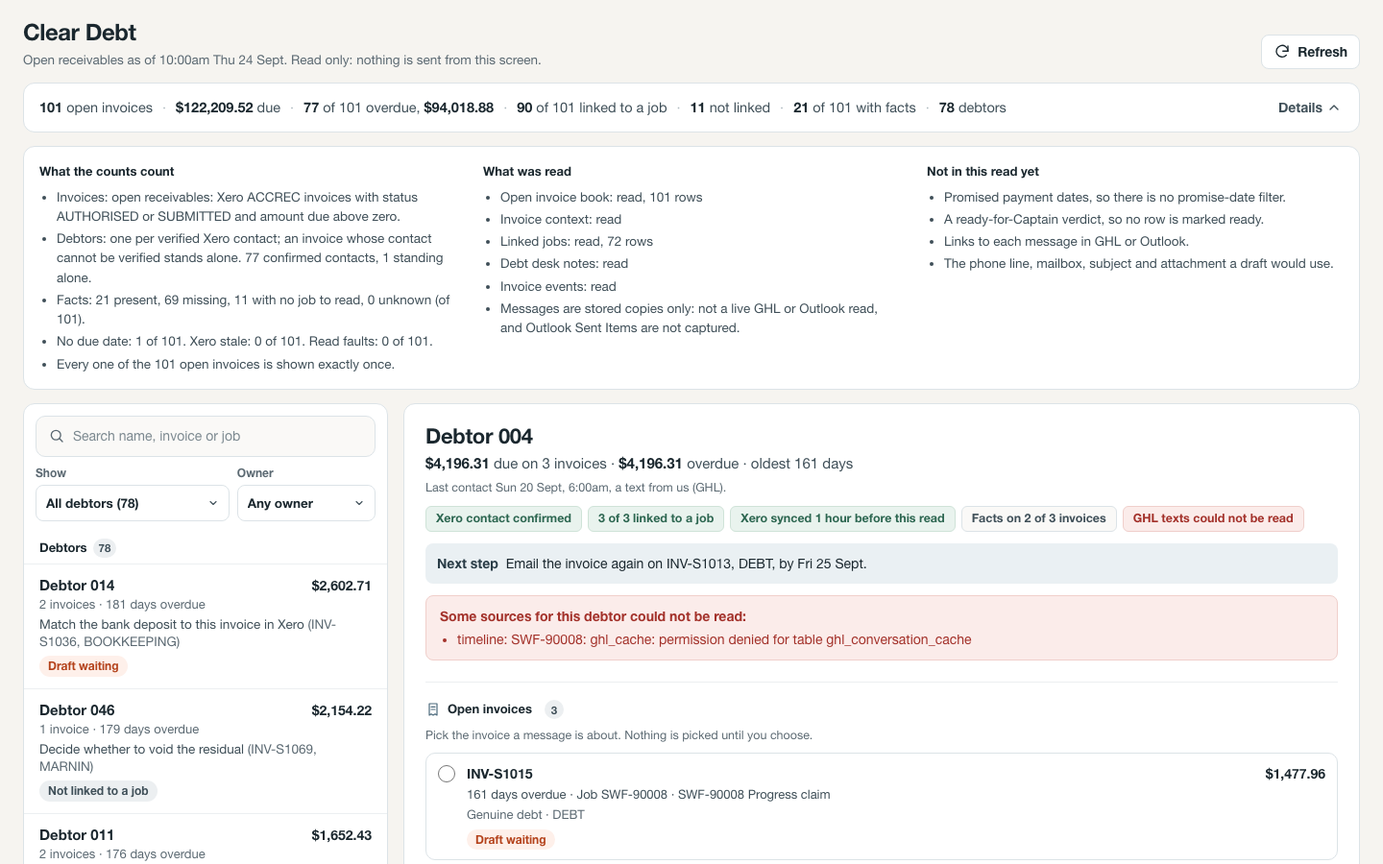
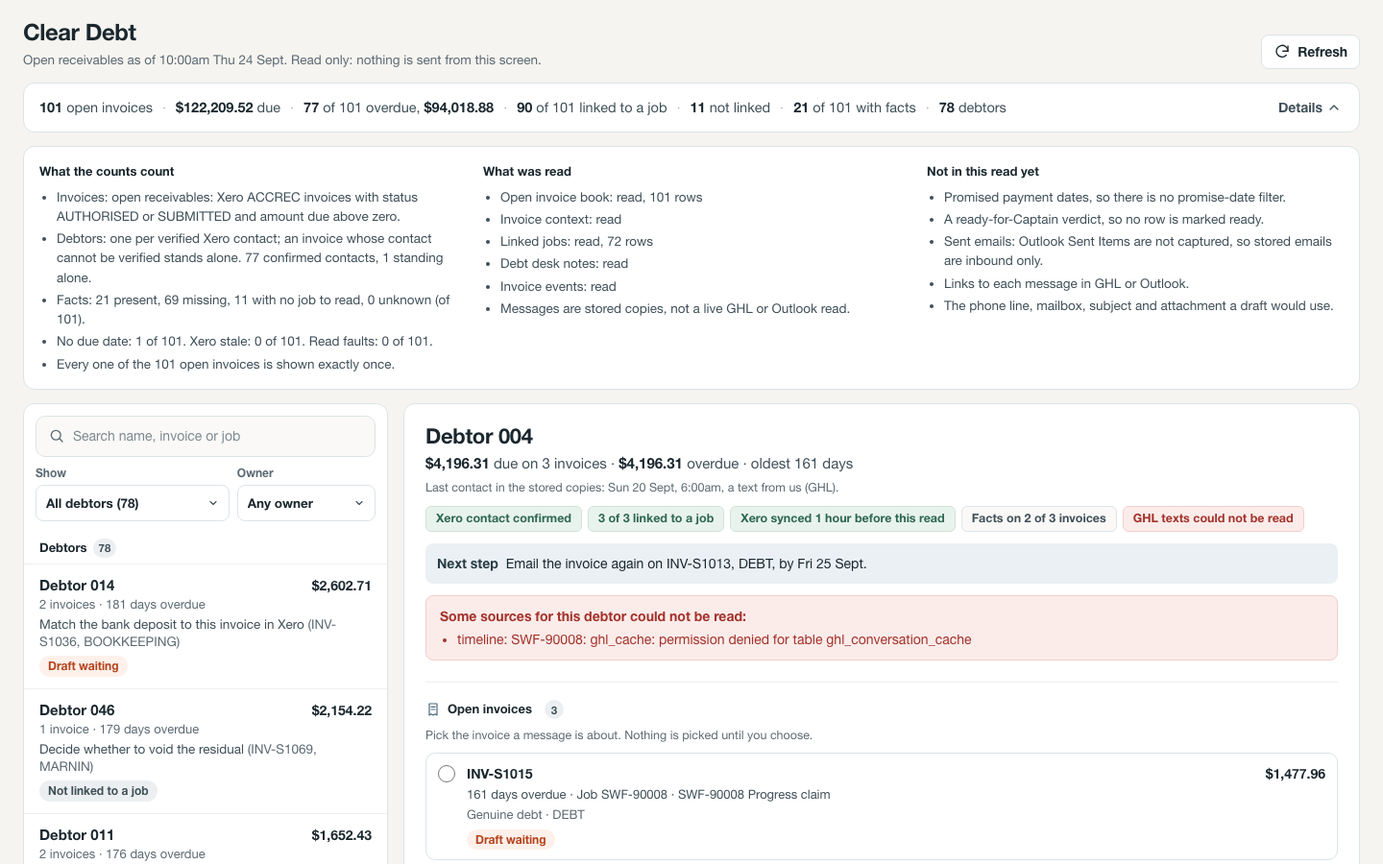
fix(ops): one rule for every empty or partial Clear Debt view
Applies the review decision after the pipeline's fix round ran out of time:
sweep every empty-state and absence line onto one rule.

- timelineLimits: each source behind the current view that was not fully
  read (GHL unreadable, stale, not read, no job or no contact; email, which
  is inbound copies only; notes unreadable or not read; Xero stale; facts
  unreadable, not read, only counted or no job), each capped job and a
  truncated timeline gives exactly one line, with the read's owner and fix.
  It replaces the separate source summary, health rows, fact lines and
  "incomplete" line, which could state one condition twice.
- absenceLine: "No texts among the 7 stored items read" only when every
  source behind the view was fully read; beside any limit there is none.
- The card's last-contact line follows the same rule ("in the stored
  copies", or "unknown:" with the limits); a GHL capture age badge keeps the
  health that the removed rows carried.
- One table-driven test walks every empty-state path against the rule.

Changed region(s): [[0.6875, 0.2489, 0.9688, 0.3733], [0.375, 0.3422, 0.625, 0.4044], [0.3438, 0.56, 0.5938, 0.5911]]

diff --git a/modules/ops-clear-debt-v2.js b/modules/ops-clear-debt-v2.js
@@ -301,20 +301,86 @@
   function isRecord(e) { return e.direction === 'system' || e.kind === 'invoice_event'; }
   function previewCut(e) { return String(e.preview || '').length >= 500; }
 
-  // What the empty or partial view is honestly missing, named by source.
-  function sourceGaps(d, group) {
-    var s = (d && d.sources) || {};
-    var out = [];
-    function say(status, what) {
-      if (status === 'no_job') out.push({ bad: false, text: 'No invoice on this debtor is linked to a job, so ' + what + ' cannot be read.' });
-      else if (status === 'unreadable') out.push({ bad: true, text: what.charAt(0).toUpperCase() + what.slice(1) + ' could not be read, so this list is not the whole story.' });
-      else if (status === 'not_read') out.push({ bad: false, text: what.charAt(0).toUpperCase() + what.slice(1) + ' were not read for this view.' });
-      else if (status === 'no_contact') out.push({ bad: false, text: 'The linked job has no GHL contact, so stored GHL texts cannot be found.' });
+  // ONE rule for every empty or partial view. A source that was not fully
+  // read (unread, unreadable, partial, stale, capped or truncated) gets one
+  // line naming it and its limit, and no absence claim. Absence is stated only
+  // when every source behind the view was fully read, and then only for what
+  // was read ("among the 7 stored items read"). Each condition is one line.
+  var GROUP_SOURCES = {
+    all: ['ghl', 'email', 'notes', 'xero', 'facts'],
+    text: ['ghl'], call: ['ghl', 'notes'], email: ['email'], note: ['notes', 'ghl'],
+    xero: ['xero'], facts: ['facts'], other: []
+  };
+  var MESSAGE_GROUPS = { all: 1, text: 1, call: 1, email: 1, note: 1 };
+  function withFix(v, text) {
+    var bits = [];
+    if (v && v.owner) bits.push('owner ' + v.owner);
+    if (v && v.recovery_action) bits.push('fix: ' + v.recovery_action);
+    if (!bits.length) return text;
+    return text.replace(/\.$/, '') + ' (' + bits.join('; ') + ').';
+  }
+  function sourceLimit(d, key) {
+    var s = (d.sources && d.sources[key]) || {};
+    var st = s.status;
+    var asOf = d.freshness && d.freshness.as_of;
+    function line(bad, text, short) { return { key: key, bad: bad, text: withFix(s, text), short: short }; }
+    if (key === 'ghl') {
+      if (st === 'bound' || st === 'several') return null;
+      if (st === 'stale') return line(true, 'Stored GHL texts are stale: last captured ' + (s.last_success_at ? (ageBetween(s.last_success_at, asOf) || 'some time') + ' before this read' : 'at a time the read did not give') + (s.stale_after ? ', stale after ' + s.stale_after : '') + '.', 'stored GHL texts are stale');
+      if (st === 'unreadable') return line(true, 'Stored GHL texts could not be read.', 'stored GHL texts could not be read');
+      if (st === 'no_job') return line(false, 'No invoice on this debtor is linked to a job, so stored GHL texts cannot be read.', 'no job is linked, so GHL texts cannot be read');
+      if (st === 'no_contact') return line(false, 'The linked job has no GHL contact, so stored GHL texts cannot be found.', 'the job has no GHL contact');
+      if (st === 'not_read') return line(false, 'Stored GHL texts were not read for this view.', 'GHL texts were not read');
+      return line(false, 'The read did not say whether stored GHL texts were read.', 'GHL texts may not have been read');
     }
-    if (group === 'all' || group === 'text' || group === 'call') say(s.ghl && s.ghl.status, 'stored GHL texts');
-    if (group === 'all' || group === 'email') say(s.email && s.email.status, 'stored emails');
-    if (group === 'all' || group === 'note') say(s.notes && s.notes.status, 'notes');
-    return out;
+    if (key === 'email') {
+      if (st === 'partial' || st === 'read' || st === 'current') return line(false, 'Stored emails are inbound copies only; sent emails are not captured.', 'sent emails are not captured');
+      if (st === 'unreadable') return line(true, 'Stored emails could not be read.', 'stored emails could not be read');
+      if (st === 'no_job') return line(false, 'No invoice on this debtor is linked to a job, so stored emails cannot be read.', 'no job is linked, so emails cannot be read');
+      if (st === 'not_read') return line(false, 'Stored emails were not read for this view.', 'emails were not read');
+      return line(false, 'The read did not say whether stored emails were read.', 'emails may not have been read');
+    }
+    if (key === 'notes') {
+      if (st === 'read') return null;
+      if (st === 'unreadable') return line(true, 'Notes and desk logs could not be read.', 'notes could not be read');
+      if (st === 'not_read') return line(false, 'Notes and desk logs were not read for this view.', 'notes were not read');
+      return line(false, 'The read did not say whether notes were read.', 'notes may not have been read');
+    }
+    if (key === 'xero') {
+      if (st === 'current') return null;
+      return line(true, 'The Xero copy is stale' + (s.stale_after_hours ? ' (older than ' + plural(s.stale_after_hours, 'hour') + ')' : '') + '.', 'the Xero copy is stale');
+    }
+    if (key === 'facts') {
+      if (s.timeline_read === 'unreadable') return line(true, 'Captured facts could not be read for this timeline.', 'captured facts could not be read');
+      if (s.timeline_read === 'not_read') return line(false, 'Captured facts were not read for this view.', 'captured facts were not read');
+      if (s.timeline_read !== 'read') return line(false, 'This read does not list captured facts; it only counts them: ' + factsWords(s).toLowerCase() + '.', 'captured facts are counted, not listed');
+      if (st === 'no_job') return line(false, 'No invoice on this debtor is linked to a job, so captured facts cannot be read.', 'no job is linked, so facts cannot be read');
+      if (st === 'unreadable' || st === 'unknown') return line(true, 'Whether facts were captured for these invoices could not be read.', 'captured facts are unknown');
+      return null;
+    }
+    return null;
+  }
+  function timelineLimits(d, group) {
+    var tl = d.timeline || {};
+    var out = [];
+    (GROUP_SOURCES[group] || []).forEach(function (k) { var l = sourceLimit(d, k); if (l) out.push(l); });
+    if (MESSAGE_GROUPS[group] && (tl.per_job_cap_reached || []).length) {
+      out.push({ key: 'cap', bad: false, text: 'Job ' + tl.per_job_cap_reached.join(', ') + ' has more than ' + tl.per_job_cap + ' messages; only the newest ' + tl.per_job_cap + ' per job were read.', short: 'only the newest ' + tl.per_job_cap + ' messages per job were read' });
+    }
+    if ((group === 'facts' || group === 'all') && (tl.facts_cap_reached || []).length) {
+      out.push({ key: 'facts_cap', bad: false, text: 'Job ' + tl.facts_cap_reached.join(', ') + ' has more than ' + tl.facts_per_job_cap + ' captured facts; only the newest ' + tl.facts_per_job_cap + ' per job were read.', short: 'only the newest ' + tl.facts_per_job_cap + ' facts per job were read' });
+    }
+    if (tl.truncated) {
+      out.push({ key: 'truncated', bad: false, text: 'Only the newest ' + (tl.entries || []).length + ' of ' + tl.entries_read + ' stored entries are in this read.', short: 'only the newest ' + (tl.entries || []).length + ' of ' + tl.entries_read + ' stored entries were read' });
+    }
+    var seen = {};
+    return out.filter(function (l) { if (seen[l.text]) return false; seen[l.text] = true; return true; });
+  }
+  // The absence line for an empty view, or null when a limit forbids one.
+  function absenceLine(d, group, what) {
+    if (timelineLimits(d, group).length) return null;
+    var n = ((d.timeline && d.timeline.entries) || []).length;
+    return 'No ' + what + ' among the ' + plural(n, 'stored item') + ' read for this debtor.';
   }
 
   // ── composer ────────────────────────────────────────────────
@@ -493,6 +559,7 @@
       '<li>Promised payment dates, so there is no promise-date filter.</li>' +
       '<li>A ready-for-Captain verdict, so no row is marked ready.</li>' +
       (factsListedAnywhere(d) ? '' : '<li>What the captured facts say (only whether they exist).</li>') +
+      '<li>Sent emails: Outlook Sent Items are not captured, so stored emails are inbound only.</li>' +
       '<li>Links to each message in GHL or Outlook.</li>' +
       '<li>The phone line, mailbox, subject and attachment a draft would use.</li>' +
       '</ul></div>' +
@@ -502,7 +569,7 @@
   function factsListedAnywhere(data) {
     return (data.debtors || []).some(function (x) { return x.sources && x.sources.facts && x.sources.facts.timeline_read === 'read'; });
   }
-  var STORED_NOTE = 'stored copies only: not a live GHL or Outlook read, and Outlook Sent Items are not captured';
+  var STORED_NOTE = 'stored copies, not a live GHL or Outlook read';
 
   function renderAlerts() {
     var d = state.data;
@@ -615,6 +682,9 @@
       if (st === 'unreadable') badges.push('<span class="badge bad">' + name + ' could not be read</span>');
       else if (/stale|fail/.test(String(st || ''))) badges.push('<span class="badge bad">' + name + ' capture ' + esc(words(st)) + '</span>');
     });
+    if (s.ghl && (s.ghl.status === 'bound' || s.ghl.status === 'several') && s.ghl.last_success_at) {
+      badges.push('<span class="badge">GHL captured ' + esc(ageBetween(s.ghl.last_success_at, fr.as_of) || 'recently') + ' before this read</span>');
+    }
     var names = id.name_variants ? '<p class="fine">Also written as ' + id.names.filter(function (n) { return n !== id.name; }).map(esc).join(', ') + ' on the same Xero contact.</p>' : '';
     var detail = id.detail ? '<p class="fine warn-text">' + esc(id.detail) + '.</p>' : '';
     var faults = (d.faults || []).length
@@ -625,9 +695,15 @@
         (d.next_step.owner ? ', ' + esc(d.next_step.owner) : '') + (d.next_step.at ? ', by ' + esc(dayLabel(d.next_step.at)) : '') + '.</p>'
       : '<p class="nextstep is-quiet"><span>Next step</span> None recorded on any of these invoices.</p>';
     var last = d.last_contact && d.last_contact.last;
-    var lastLine = last
-      ? 'Last contact ' + esc(whenLabel(last.at)) + ', ' + esc(last.channel === 'call' ? 'a call' : (last.channel === 'email' ? 'an email' : 'a text')) + ' ' + (last.direction === 'inbound' ? 'from them' : 'from us') + ' (' + esc(providerLabel(last.provider)) + ').'
-      : 'No text, email or call in the stored copies' + (d.last_contact && d.last_contact.complete === false ? ', which are incomplete for this debtor' : '') + '.';
+    var lastLine;
+    if (last) {
+      lastLine = 'Last contact in the stored copies: ' + esc(whenLabel(last.at)) + ', ' + esc(last.channel === 'call' ? 'a call' : (last.channel === 'email' ? 'an email' : 'a text')) + ' ' + (last.direction === 'inbound' ? 'from them' : 'from us') + ' (' + esc(providerLabel(last.provider)) + ').';
+    } else {
+      var lim = timelineLimits(d, 'all');
+      lastLine = lim.length
+        ? 'Last contact unknown: ' + esc(lim.map(function (l) { return l.short; }).join('; ')) + '.'
+        : esc(absenceLine(d, 'all', 'text, email or call'));
+    }
     return '<header class="cardhead">' +
       '<h2>' + esc(debtorName(d)) + '</h2>' +
       '<p class="figures"><b>' + esc(money(d.total_due)) + '</b> due on ' + plural(d.invoice_count, 'invoice') +
@@ -702,17 +778,14 @@
       return '<button type="button" class="chip" data-cd="tl" data-tl="' + c.key + '" aria-pressed="' + (state.tlFilter === c.key) + '">' + esc(c.label) + (n == null ? '' : '<span class="count">' + n + '</span>') + '</button>';
     }).join('');
     var status = timelineStatus(d);
+    var list = timelineEntries(d);
     var body;
-    {
-      var list = timelineEntries(d);
-      if (!list.length) {
-        var gaps = state.tlFilter === 'facts' ? factLines(d) : sourceGaps(d, state.tlFilter);
-        var which = state.tlFilter === 'all' ? 'entries' : (TL_CHIPS.filter(function (c) { return c.key === state.tlFilter; })[0].label.toLowerCase());
-        body = (gaps.length ? '' : '<p class="thread-note">No ' + esc(which) + ' in the ' + (tl.entries.length ? 'newest ' + tl.entries.length + ' ' : '') + 'stored copies for this debtor.</p>') +
-          gaps.filter(function (g) { return !g.always; }).map(function (g) { return '<p class="thread-note' + (g.bad ? ' is-bad' : '') + '">' + esc(g.text) + '</p>'; }).join('');
-      } else {
-        body = '<ol class="thread">' + list.map(function (e) { return renderEntry(d, e); }).join('') + '</ol>';
-      }
+    if (!list.length) {
+      var which = state.tlFilter === 'all' ? 'entries' : TL_CHIPS.filter(function (c) { return c.key === state.tlFilter; })[0].label.toLowerCase();
+      var none = absenceLine(d, state.tlFilter, which);
+      body = none ? '<p class="thread-note">' + esc(none) + '</p>' : '';
+    } else {
+      body = '<ol class="thread">' + list.map(function (e) { return renderEntry(d, e); }).join('') + '</ol>';
     }
     return '<section class="block" aria-labelledby="cd-tl-h">' + head +
       '<div class="chips" role="group" aria-label="Show in the timeline">' + chips + '</div>' +
@@ -722,91 +795,12 @@
 
   function timelineStatus(d) {
     var tl = d.timeline;
-    var lines = [];
-    lines.push('<span>Newest first. ' + (tl.truncated ? 'Showing the newest ' + tl.entries.length + ' of ' + tl.entries_read + ' stored entries.' : plural(tl.entries.length, 'stored entry', 'stored entries') + '.') + '</span>');
-    if ((tl.per_job_cap_reached || []).length) {
-      lines.push('<span>Job ' + tl.per_job_cap_reached.map(esc).join(', ') + ' has more than ' + tl.per_job_cap + ' messages; only the newest ' + tl.per_job_cap + ' per job were read.</span>');
-    }
-    if (tl.duplicates_merged) lines.push('<span>' + plural(tl.duplicates_merged, 'copy', 'copies') + ' of the same message shown once.</span>');
-    var s = d.sources;
-    var src = [
-      'GHL texts ' + ghlWords(s.ghl && s.ghl.status),
-      'emails ' + emailWords(s.email && s.email.status),
-      'notes ' + readWords(s.notes && s.notes.status),
-      'Xero ' + (s.xero && s.xero.status === 'current' ? 'current' : 'stale')
-    ];
-    lines.push('<span>Sources: ' + esc(src.join('; ')) + '.</span>');
-    lines.push('<span>These are ' + esc(STORED_NOTE) + '.</span>');
-    var facts = factLines(d).filter(function (g) { return g.always; });
-    var health = sourceHealth(d) + facts.map(function (g) { return '<p class="thread-note' + (g.bad ? ' is-bad' : '') + '">' + esc(g.text) + '</p>'; }).join('');
-    var incomplete = tl.complete ? '' : '<p class="thread-note' + ((d.faults || []).length ? ' is-bad' : '') + '">This timeline is incomplete' + ((d.faults || []).length ? ': a source could not be read.' : ': older or capped entries are not in this read.') + '</p>';
-    return '<p class="tl-status fine">' + lines.join(' ') + '</p>' + health + incomplete;
-  }
-
-  // Per-source capture health, when the read carries it (the CFO desk's
-  // later revision: status, last_success_at, stale_after, owner,
-  // recovery_action). Absent fields are simply not claimed.
-  var HEALTH_SOURCES = [['ghl', 'GHL'], ['email', 'Email'], ['notes', 'Notes'], ['facts', 'Facts'], ['xero', 'Xero']];
-  function sourceHealthRows(d) {
-    var s = (d && d.sources) || {};
-    return HEALTH_SOURCES.filter(function (x) {
-      var v = s[x[0]];
-      return v && (v.last_success_at || v.stale_after || v.owner || v.recovery_action);
-    }).map(function (x) {
-      var v = s[x[0]];
-      var bits = [];
-      var age = v.last_success_at ? ageBetween(v.last_success_at, d.freshness.as_of) : null;
-      var live = Boolean(v.last_success_at) && v.last_success_at === d.freshness.as_of;
-      if (live) bits.push('read live with this read');
-      else if (v.last_success_at) bits.push('last captured ' + (age || 'at an unknown time') + ' before this read');
-      else bits.push('no capture time published');
-      if (v.stale_after) bits.push('stale after ' + (typeof v.stale_after === 'number' ? plural(v.stale_after, 'hour') : v.stale_after));
-      if (v.owner) bits.push('owner ' + v.owner);
-      if (v.recovery_action) bits.push('fix: ' + v.recovery_action);
-      if (x[0] === 'email') bits.push('sent emails not captured');
-      return { key: x[0], label: x[1], bad: /stale|unreadable|fail|missing/.test(String(v.status || '')), text: x[1] + ': ' + (live && v.status === 'read' ? '' : words(v.status || 'status not stated') + ', ') + bits.join(', ') };
-    });
-  }
-  function sourceHealth(d) {
-    var rows = sourceHealthRows(d);
-    if (!rows.length) return '';
-    return '<ul class="health fine">' + rows.map(function (r) { return '<li' + (r.bad ? ' class="is-bad"' : '') + '>' + esc(r.text) + '.</li>'; }).join('') + '</ul>';
-  }
-  function ghlWords(s) {
-    return { bound: 'read', several: 'read (several GHL contacts)', stale: 'stale, not captured recently', no_contact: 'no contact on the job', no_job: 'no job to read', unreadable: 'could not be read', not_read: 'not read' }[s] || 'unknown';
-  }
-  // Email is never called complete while Outlook Sent Items are not captured.
-  function emailWords(s) {
-    if (s === 'read' || s === 'current' || s === 'partial') return 'read from inbound copies, sent ones not captured';
-    return readWords(s);
-  }
-  function readWords(s) {
-    return { read: 'read', no_job: 'no job to read', unreadable: 'could not be read', not_read: 'not read' }[s] || 'unknown';
-  }
-
-  // What the timeline can honestly say about captured facts. Lines marked
-  // always show under the status line; the rest explain an empty Facts view.
-  function factLines(d) {
-    var f = (d.sources && d.sources.facts) || {};
-    var tl = d.timeline || {};
-    var out = [];
-    if (f.timeline_read === 'unreadable') {
-      out.push({ always: true, bad: true, text: 'Captured facts could not be read for this timeline, so none are shown. This does not mean there are none.' });
-    } else if (f.timeline_read === 'not_read') {
-      out.push({ always: true, bad: false, text: 'Captured facts were not read for this view.' });
-    } else if (f.timeline_read !== 'read') {
-      out.push({ always: true, bad: false, text: 'This read did not report whether captured facts were listed.' });
-    } else if (f.status === 'no_job') {
-      out.push({ always: true, bad: false, text: 'No invoice on this debtor is linked to a job, so captured facts cannot be read here.' });
-    } else if (f.status === 'missing') {
-      out.push({ always: false, bad: false, text: 'No facts have been captured from the linked jobs yet.' });
-    } else {
-      out.push({ always: false, bad: false, text: 'None of the captured facts are among the newest ' + (tl.entries || []).length + ' entries in this view.' });
-    }
-    if ((tl.facts_cap_reached || []).length) {
-      out.push({ always: true, bad: false, text: 'Job ' + tl.facts_cap_reached.join(', ') + ' has more than ' + tl.facts_per_job_cap + ' captured facts; only the newest ' + tl.facts_per_job_cap + ' per job were read.' });
-    }
-    return out;
+    var lines = ['Newest first.'];
+    if (tl.duplicates_merged) lines.push(plural(tl.duplicates_merged, 'copy', 'copies') + ' of the same message shown once.');
+    lines.push('These are ' + STORED_NOTE + '.');
+    var limits = timelineLimits(d, state.tlFilter);
+    return '<p class="tl-status fine">' + esc(lines.join(' ')) + '</p>' +
+      (limits.length ? '<ul class="limits" data-cd-limits>' + limits.map(function (l) { return '<li' + (l.bad ? ' class="is-bad"' : '') + '>' + esc(l.text) + '</li>'; }).join('') + '</ul>' : '');
   }
 
   function factValue(v) {
@@ -1050,9 +1044,8 @@
     entryGroup: entryGroup,
     timelineEntries: timelineEntries,
     chipCounts: chipCounts,
-    sourceGaps: sourceGaps,
-    sourceHealthRows: sourceHealthRows,
-    factLines: factLines,
+    timelineLimits: timelineLimits,
+    absenceLine: absenceLine,
     staleOrUnreadable: staleOrUnreadable,
     isFactEntry: isFactEntry,
     composerModel: composerModel,

diff --git a/tests/e2e/ops-clear-debt.spec.js b/tests/e2e/ops-clear-debt.spec.js
@@ -114,8 +114,8 @@ for (const vp of viewports) {
       const card = page.locator('.db-card');
       const entries = card.locator('.thread > li.tl');
       await expect(entries).toHaveCount(12);
-      await expect(card.locator('.tl-status')).toContainText('Showing the newest 12 of 32 stored entries.');
-      await expect(card.locator('.tl-status')).toContainText('Outlook Sent Items are not captured');
+      await expect(card.locator('[data-cd-limits]')).toContainText('Only the newest 12 of 32 stored entries are in this read.');
+      await expect(card.locator('[data-cd-limits]')).toContainText('Stored emails are inbound copies only; sent emails are not captured');
       await expect(card.locator('.tl .src').first()).toBeVisible();
       await expect(card.locator('.tl-foot', { hasText: 'Preview, cut at 500 characters' })).toHaveCount(1);
       await expect(card.locator('.tl-foot', { hasText: 'also in captured event' })).toHaveCount(1);
@@ -182,18 +182,18 @@ for (const vp of viewports) {
       const card = page.locator('.db-card');
       await expect(card.locator('.badge.bad')).toHaveText('GHL texts could not be read');
       await expect(card.locator('.cardhead .db-alert')).toContainText('ghl_cache: permission denied');
-      await expect(card).toContainText('This timeline is incomplete: a source could not be read.');
+      await expect(card.locator('[data-cd-limits] li.is-bad')).toContainText('Stored GHL texts could not be read (owner CIO; fix: Retry the read');
       if (vp.name === 'phone') await card.getByRole('button', { name: 'All debtors' }).click();
       await page.locator('.db-list .lead', { hasText: 'Debtor 002' }).first().click();
-      await expect(card.locator('.tl-status')).toContainText('only the newest 10 per job were read');
+      await expect(card.locator('[data-cd-limits]')).toContainText('only the newest 10 per job were read');
       if (vp.name === 'phone') await card.getByRole('button', { name: 'All debtors' }).click();
       await page.locator('.db-list .lead', { hasText: 'Debtor 006' }).first().click();
-      await expect(card).toContainText('Captured facts could not be read for this timeline, so none are shown. This does not mean there are none.');
+      await expect(card.locator('[data-cd-limits]')).toContainText('Captured facts could not be read for this timeline.');
       await expect(card.locator('[data-tl="facts"] .count')).toHaveCount(0);
       if (vp.name === 'phone') await card.getByRole('button', { name: 'All debtors' }).click();
       await page.locator('.db-list .lead', { hasText: 'Debtor 008' }).first().click();
       await expect(card.locator('.badge.bad')).toHaveText('GHL texts capture stale');
-      await expect(card.locator('.health')).toContainText('GHL: stale, last captured 30 hours before this read, stale after 6h, owner CIO, fix: CIO: run the GHL message reconcile for the stale contact(s).');
+      await expect(card.locator('[data-cd-limits]')).toContainText('Stored GHL texts are stale: last captured 30 hours before this read, stale after 6h (owner CIO; fix: CIO: run the GHL message reconcile for the stale contact(s)).');
       expect((await ledger(page)).reads).toHaveLength(1);
     });
 

diff --git a/modules/ops-clear-debt-v2.css b/modules/ops-clear-debt-v2.css
@@ -175,8 +175,11 @@
 #clearDebtRoot .chip[aria-pressed="true"]:hover{background:var(--brand)}
 #clearDebtRoot .chip[aria-pressed="true"] .count{background:rgba(255,255,255,.18);color:#fff}
 #clearDebtRoot .tl-status{max-width:90ch}
-#clearDebtRoot .health{list-style:none;padding:0;display:grid;gap:2px}
-#clearDebtRoot .health .is-bad{color:var(--bad)}
+#clearDebtRoot .limits{list-style:none;padding:0;display:grid;gap:3px;font-size:13px;color:var(--ink-2)}
+#clearDebtRoot .limits li{position:relative;padding-left:14px}
+#clearDebtRoot .limits li::before{content:"";position:absolute;left:2px;top:8px;width:5px;height:5px;border-radius:50%;background:#AEB9BF}
+#clearDebtRoot .limits .is-bad{color:var(--bad);font-weight:600}
+#clearDebtRoot .limits .is-bad::before{background:var(--bad)}
 #clearDebtRoot .thread-note{color:var(--muted);font-size:13.5px}
 #clearDebtRoot .thread-note.is-bad{color:var(--bad);font-weight:600}
 #clearDebtRoot .thread{list-style:none;padding:0;display:grid;gap:8px;margin-top:4px}

diff --git a/docs/clear-debt-ui.md b/docs/clear-debt-ui.md
@@ -12,7 +12,8 @@ The screen is a work list, phone first:
 - **Debtor list** in the read's order. Search matches the whole query inside one field: any contact name spelling, invoice number, reference, linked job number or ambiguous-link candidate. **Show** filters answer only from fields the read carries (overdue, 60+ days, draft waiting, our message was last, not linked, facts missing, stale or unreadable source, contact not confirmed, dispute, blocked, awaiting allocation, not owed, unclassified). "Stale or unreadable source" covers stale Xero, any debtor fault, and a GHL, email, notes or facts source the read marks `stale` or `unreadable`; **Owner** comes from `owners`. Filters never change the counts line. There is no promise-date or ready-for-Captain filter until the read carries those fields.
 - **Debtor card**: name, totals, last contact, name variants on the same contact, the standing-alone reason for an unconfirmed contact, badges for identity, job links, Xero freshness, facts and any unreadable source, the debtor's next step naming its invoice, and every debtor fault verbatim.
 - **Invoice picker**: every invoice its own radio row, none picked at first. The draft exists only once one invoice is picked, and is about that invoice only.
-- **Timeline**: `debtor.timeline.entries` as one stream, newest first, each entry labelled with its provider, kind, direction, time, source (and the other sources that held the same message), invoice or job scope, and "Preview" (or "Preview, cut at 500 characters"). Chips filter that same stream; picking an invoice does not narrow it. Invoice selection is used by the composer only. The status line states truncation, the per-job cap, merged copies, each source's state and the stored-copies caveat; email is never called complete because Outlook Sent Items are not captured. An empty filter names the missing source, never "no messages". **Captured facts are timeline entries** with `kind: "fact"` (provider `luna`, source `current_job_context_facts`, a `fact` block with `kind`, `value`, `captured_at`, `source_id` and `state` current or stale); nothing else is treated as a fact, and there is no separate facts panel. The Facts chip counts them only when `sources.facts.timeline_read` is `read`; when it is `unreadable`, `not_read`, absent, capped, or there is no linked job, one honest line in the timeline names that condition instead of using summary counts as a substitute. Per-source health (`status`, `last_success_at`, `stale_after`, `owner`, `recovery_action`) renders under the status line; email's `partial` status reads as inbound copies only.
+- **Timeline**: `debtor.timeline.entries` as one stream, newest first, each entry labelled with its provider, kind, direction, time, source (and the other sources that held the same message), invoice or job scope, and "Preview" (or "Preview, cut at 500 characters"). Chips filter that same stream. **Captured facts are timeline entries** with `kind: "fact"` (provider `luna`, source `current_job_context_facts`, a `fact` block with `kind`, `value`, `captured_at`, `source_id` and `state` current or stale); nothing else is a fact, and there is no separate facts panel. The Facts chip shows a count only when `sources.facts.timeline_read` is `read`.
+  **One rule for empty and partial views** (`timelineLimits` / `absenceLine`): every source behind the current view that was not fully read (GHL unreadable, stale, not read, no job or no contact; email always, because it is inbound copies only and Sent Items are not captured; notes unreadable or not read; Xero stale; facts unreadable, not read, only counted or no job), each capped job and a truncated timeline gets exactly one line under the chips, with the read's owner and fix when it gives them. An absence ("No texts among the 7 stored items read for this debtor.") is said only when every source behind the view was fully read, and only for what was read; beside any limit there is no absence line at all. The card's last-contact line follows the same rule: "Last contact in the stored copies: …", or "Last contact unknown:" followed by the limits. `modules/ops-clear-debt-v2.test.cjs` covers every path in one table.
 - **Draft**: Text, Email or Note for the picked invoice. A pending desk proposal of the matching channel loads verbatim with its recipient; the card names every field the read cannot supply (phone, sending line, email address, subject, attachment, mailbox). Edits stay in the browser tab, are marked as unsaved, and can go back to the drafted words.
 - **Phone**: the list, or the chosen debtor with **All debtors** to go back.
 
